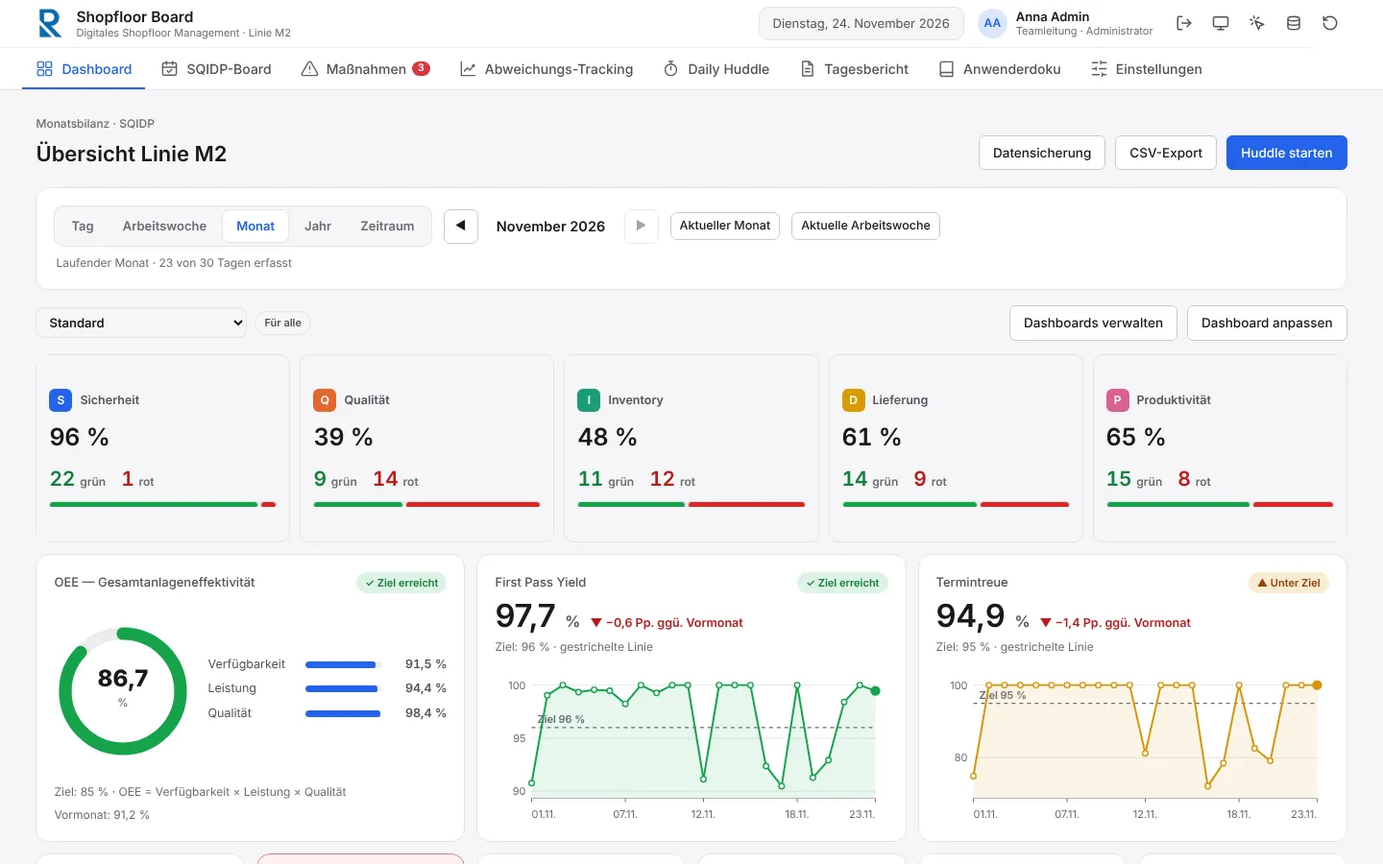
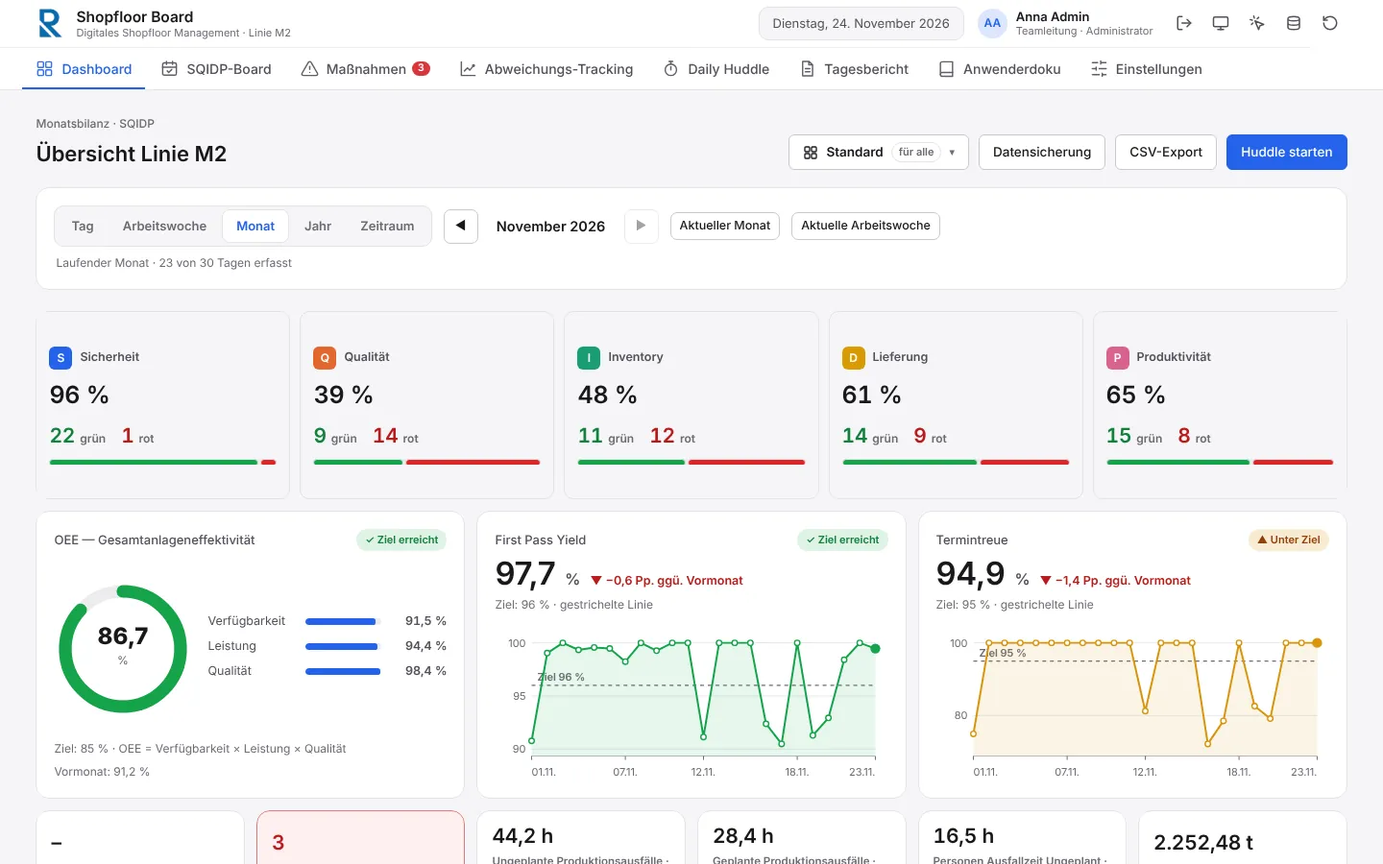
Dashboard-Menü in der Kopfzeile statt eigener Werkzeugleiste
- Knopf mit Namen des Dashboards neben Datensicherung/CSV/Huddle starten
- Menü: Dashboards wechseln, anpassen, kopieren, Einstellungen, neu
- Fenster „Dashboards verwalten“ entfällt; Doku und Bilder angepasst

Claude-Session: https://claude.ai/code/session_01VLWA3m64Q7Rtwxk9avuyph

diff --git a/frontend/index.html b/frontend/index.html
@@ -1516,13 +1516,11 @@ kbd {
 
 
 /* ============ Anpassbares Dashboard (12-Spalten-Raster) ============ */
-.dash-picker { display: flex; align-items: center; gap: 8px; flex-wrap: wrap; margin-right: auto; }
-.dash-picker select { min-width: 220px; max-width: 340px; font-weight: 600; }
 .dm-vis { display: flex; flex-direction: column; gap: 8px; }
 .dm-opt { display: flex; align-items: flex-start; gap: 8px; font-size: 13.5px; font-weight: 400 !important; color: var(--ink); cursor: pointer; }
 .dm-opt input { margin-top: 3px; }
+.dash-toolbar:not(.editing) { display: none; }
 .dash-toolbar { display: flex; align-items: center; gap: 10px; flex-wrap: wrap; margin: -6px 0 14px; }
-.dash-toolbar.editing > :not(.dash-editbar) { display: none; }
 .dash-editbar { flex: 1 1 100%; display: flex; align-items: center; gap: 12px 18px; flex-wrap: wrap; padding: 10px 12px 10px 16px;
   border: 1px solid color-mix(in srgb, var(--accent) 45%, var(--line)); border-radius: 12px;
   background: color-mix(in srgb, var(--accent) 9%, var(--surface)); }
@@ -1531,19 +1529,36 @@ kbd {
 .dash-editbar-text b { font-size: 14px; }
 .dash-editbar-text span { font-size: 12px; color: var(--muted); }
 .dash-editbar-actions { display: flex; gap: 8px; flex-wrap: wrap; }
-#dashListDialog { width: min(640px, calc(100vw - 32px)); }
-.dl-top { display: flex; align-items: center; gap: 12px; justify-content: space-between; flex-wrap: wrap; margin-bottom: 14px; }
-.dl-top .mini-hint { margin: 0; flex: 1 1 240px; }
-.dl-group { font-size: 11.5px; font-weight: 600; color: var(--muted); text-transform: uppercase; letter-spacing: .06em; margin: 14px 0 6px; }
-.dl-group:first-child { margin-top: 0; }
-.dl-list { display: flex; flex-direction: column; }
-.dl-row { display: flex; align-items: center; gap: 10px; padding: 9px 10px; border: 1px solid var(--line); border-radius: 10px; margin-bottom: 6px; background: var(--surface); }
-.dl-row.current { border-color: color-mix(in srgb, var(--accent) 55%, var(--line)); background: color-mix(in srgb, var(--accent) 7%, var(--surface)); }
-.dl-main { flex: 1 1 auto; min-width: 0; }
-.dl-name { font-weight: 600; font-size: 14px; overflow: hidden; text-overflow: ellipsis; white-space: nowrap; }
-.dl-sub { font-size: 12px; color: var(--muted); margin-top: 1px; }
-.dl-actions { display: flex; gap: 6px; flex: none; flex-wrap: wrap; justify-content: flex-end; }
-@media (max-width: 560px) { .dl-row { flex-wrap: wrap; } .dl-actions { width: 100%; justify-content: flex-start; } }
+.dash-menu-wrap { position: relative; }
+.dash-menu-btn { display: inline-flex; align-items: center; gap: 8px; max-width: 340px; }
+.dash-menu-btn .ico { width: 16px; height: 16px; flex: none; }
+.dash-menu-name { font-weight: 600; overflow: hidden; text-overflow: ellipsis; white-space: nowrap; min-width: 0; }
+.dash-menu-vis { font-size: 11px; font-weight: 600; color: var(--muted); border: 1px solid var(--line); border-radius: 999px; padding: 1px 7px; white-space: nowrap; }
+.dash-menu-caret { color: var(--muted); font-size: 11px; }
+.dash-menu { position: absolute; right: 0; top: calc(100% + 6px); z-index: 60; width: min(380px, calc(100vw - 32px));
+  background: var(--surface); border: 1px solid var(--line); border-radius: 14px; box-shadow: 0 12px 32px rgba(0,0,0,.18); padding: 8px; }
+.dash-menu[hidden] { display: none; }
+.dash-menu-list { max-height: min(46vh, 360px); overflow-y: auto; padding-bottom: 6px; }
+.dash-menu-group { font-size: 11px; font-weight: 600; color: var(--muted); text-transform: uppercase; letter-spacing: .07em; padding: 8px 10px 4px; }
+.dash-menu-opt { display: flex; align-items: center; gap: 10px; width: 100%; text-align: left; border: 0; background: none; font: inherit; color: var(--ink); padding: 8px 10px; border-radius: 9px; cursor: pointer; }
+.dash-menu-opt:hover, .dash-menu-opt:focus-visible, .dash-menu-item:hover, .dash-menu-item:focus-visible { background: var(--surface-2); outline: none; }
+.dash-menu-opt.current { background: color-mix(in srgb, var(--accent) 11%, transparent); }
+.dash-menu-check { width: 16px; flex: none; color: var(--accent-2); font-weight: 700; }
+.dash-menu-opt-name { flex: 1; min-width: 0; overflow: hidden; text-overflow: ellipsis; white-space: nowrap; font-weight: 500; }
+.dash-menu-opt.current .dash-menu-opt-name { font-weight: 600; }
+.dash-menu-opt-owner { font-size: 12px; color: var(--muted); white-space: nowrap; }
+.dash-menu-actions { border-top: 1px solid var(--line); padding-top: 6px; display: flex; flex-direction: column; }
+.dash-menu-item { display: flex; align-items: flex-start; gap: 10px; width: 100%; text-align: left; border: 0; background: none; font: inherit; color: var(--ink); padding: 8px 10px; border-radius: 9px; cursor: pointer; }
+.dash-menu-item[hidden] { display: none; }
+.dash-menu-item b { display: block; font-weight: 600; font-size: 14px; }
+.dash-menu-item small { display: block; font-size: 12px; color: var(--muted); margin-top: 1px; }
+.dmi-ico { width: 22px; height: 22px; border-radius: 6px; display: grid; place-items: center; flex: none; background: var(--surface-2); color: var(--accent-2); font-size: 13px; margin-top: 1px; }
+@media (max-width: 640px) {
+  .dash-menu-wrap { position: static; width: 100%; }
+  .dash-menu-btn { max-width: none; width: 100%; }
+  .dash-menu-name { flex: 1; text-align: left; }
+  .dash-menu { left: 16px; right: 16px; width: auto; top: auto; margin-top: 6px; position: absolute; }
+}
 .dash-grid { display: grid; grid-template-columns: repeat(12, minmax(0, 1fr)); grid-auto-rows: 40px; gap: 12px; position: relative; }
 .dw {
   grid-column: var(--x) / span var(--w); grid-row: var(--y) / span var(--h);
@@ -1875,6 +1890,23 @@ dialog::backdrop { background: rgba(0, 0, 0, .45); }
       <h1 id="dashTitle">Übersicht Linie M2</h1>
     </div>
     <div class="head-actions">
+      <div class="dash-menu-wrap">
+        <button class="btn dash-menu-btn" id="dashMenuBtn" type="button" aria-haspopup="menu" aria-expanded="false" aria-controls="dashMenu" title="Dashboard wechseln, anpassen, kopieren oder neu anlegen">
+          <svg class="ico" aria-hidden="true"><use href="#i-dashboard"/></svg>
+          <span class="dash-menu-name" id="dashMenuName">Standard</span>
+          <span class="dash-menu-vis" id="dashVisPill"></span>
+          <span class="dash-menu-caret" aria-hidden="true">▾</span>
+        </button>
+        <div class="dash-menu" id="dashMenu" role="menu" aria-label="Dashboards" hidden>
+          <div class="dash-menu-list" id="dashMenuList"></div>
+          <div class="dash-menu-actions">
+            <button class="dash-menu-item" role="menuitem" type="button" id="dashEditBtn"><span class="dmi-ico" aria-hidden="true">✎</span><span><b>Dashboard anpassen</b><small id="dashEditHintTxt">Karten und Diagramme hinzufügen, verschieben, Größe ändern</small></span></button>
+            <button class="dash-menu-item" role="menuitem" type="button" id="dashCopyBtn"><span class="dmi-ico" aria-hidden="true">⧉</span><span><b>Kopie erstellen</b><small>Dieses Dashboard als eigenes übernehmen</small></span></button>
+            <button class="dash-menu-item" role="menuitem" type="button" id="dashMetaBtn"><span class="dmi-ico" aria-hidden="true">⚙</span><span><b>Einstellungen</b><small>Name, Sichtbarkeit, löschen</small></span></button>
+            <button class="dash-menu-item" role="menuitem" type="button" id="dashNewBtn"><span class="dmi-ico" aria-hidden="true">＋</span><span><b>Neues Dashboard</b><small>Leer oder als Kopie, privat oder öffentlich</small></span></button>
+          </div>
+        </div>
+      </div>
       <button class="btn" id="backupBtn" title="Alle Daten als Datei sichern oder aus einer Sicherung wiederherstellen">Datensicherung</button>
       <button class="btn" id="dashCsvBtn" title="Tages-Kennzahlen (OEE, FPY, Termintreue u. a.) als CSV exportieren">CSV-Export</button>
       <button class="btn primary" data-goto="huddle">Huddle starten</button>
@@ -1905,12 +1937,6 @@ dialog::backdrop { background: rgba(0, 0, 0, .45); }
     <p class="mini-hint" id="dashCoverageText"></p>
   </div>
   <div class="dash-toolbar" id="dashToolbar">
-    <div class="dash-picker" id="dashPicker">
-      <select id="dashSelect" class="perm-select" aria-label="Dashboard auswählen"></select>
-      <span class="pill neutral" id="dashVisPill"></span>
-    </div>
-    <button class="btn" id="dashManageBtn" type="button" title="Alle Dashboards: öffnen, neu anlegen, kopieren, umbenennen, löschen">Dashboards verwalten</button>
-    <button class="btn" id="dashEditBtn" title="Karten und Diagramme hinzufügen, verschieben und in der Größe ändern">Dashboard anpassen</button>
     <div class="dash-editbar" id="dashEditTools" hidden>
       <div class="dash-editbar-text">
         <b id="dashEditTitle">Dashboard anpassen</b>
@@ -3043,20 +3069,6 @@ dialog::backdrop { background: rgba(0, 0, 0, .45); }
 </dialog>
 
 <!-- Dialog: Dashboard anlegen / Einstellungen -->
-<dialog id="dashListDialog" aria-labelledby="dlTitle">
-  <div class="dlg-head">
-    <h2 id="dlTitle">Dashboards</h2>
-    <button type="button" class="btn ghost sm" id="dlClose" aria-label="Schließen">✕</button>
-  </div>
-  <div class="dlg-body">
-    <div class="dl-top">
-      <p class="mini-hint">Standard-Dashboards gelten für alle. Eigene Dashboards sind privat oder öffentlich.</p>
-      <button type="button" class="btn primary" id="dlNew">+ Neues Dashboard</button>
-    </div>
-    <div class="dl-list" id="dlList"></div>
-  </div>
-</dialog>
-
 <dialog id="dashMetaDialog">
   <form method="dialog" id="dashMetaForm" novalidate>
     <div class="dlg-head">
@@ -5964,34 +5976,72 @@ window.SFM = (function () {
     B.edit = on;
     renderActiveBoard();
   }
+  function dashOwnerText(x) {
+    var me = dashMe().toLowerCase();
+    if (x.visibility !== "public") return "";
+    return String(x.owner).toLowerCase() === me && me ? "von Ihnen" : "von " + x.owner;
+  }
   function renderDashPicker() {
-    var sel = $("#dashSelect");
-    if (!sel) return;
-    var list = dashList || dashFallbackList(), d = currentDash(), me = dashMe().toLowerCase();
-    sel.innerHTML = "";
-    [["standard", "Standard"], ["public", "Öffentlich"], ["private", "Privat"]].forEach(function (g) {
+    if (!$("#dashMenuName")) return;
+    var d = currentDash();
+    $("#dashMenuName").textContent = d.name;
+    $("#dashVisPill").textContent = d.visibility === "standard" ? "für alle" : d.visibility === "public" ? "öffentlich" : "privat";
+    $("#dashMenuBtn").title = "Dashboard: " + d.name + " — " + (d.visibility === "standard" ? "Standard-Dashboard, gleich für alle"
+      : d.visibility === "public" ? "öffentlich, " + dashOwnerText(d) : "privat, nur für Sie") + ". Klicken zum Wechseln, Anpassen oder Anlegen.";
+    $("#dashLayoutReset").hidden = !dashIsBuiltin(d);
+    $("#dashEditHintTxt").textContent = dashIsBuiltin(d) ? "Gilt für alle — Teamleitung und Administration" : "Karten und Diagramme hinzufügen, verschieben, Größe ändern";
+    $("#dashCopyBtn").hidden = !dashMe();
+    $("#dashNewBtn").hidden = !dashMe();
+    $("#dashMetaBtn").hidden = !(d.canEdit && !dashIsBuiltin(d));
+    if (!$("#dashMenu").hidden) renderDashMenuList();
+  }
+  function renderDashMenuList() {
+    var box = $("#dashMenuList"), list = dashList || dashFallbackList(), cur = currentDash();
+    box.innerHTML = "";
+    [["standard", "Standard — für alle"], ["public", "Öffentlich"], ["private", "Privat — nur für Sie"]].forEach(function (g) {
       var items = list.filter(function (x) { return x.visibility === g[0]; });
       if (!items.length) return;
-      var og = document.createElement("optgroup");
-      og.label = g[1];
+      box.appendChild(el("div", "dash-menu-group", g[1]));
       items.forEach(function (x) {
-        var o = document.createElement("option");
-        o.value = x.id;
-        o.textContent = x.name + (x.visibility === "public" && String(x.owner).toLowerCase() !== me ? " · " + x.owner : "");
-        og.appendChild(o);
+        var b = el("button", "dash-menu-opt" + (x.id === cur.id ? " current" : ""));
+        b.type = "button"; b.setAttribute("role", "menuitemradio"); b.setAttribute("aria-checked", x.id === cur.id ? "true" : "false");
+        b.appendChild(el("span", "dash-menu-check", x.id === cur.id ? "✓" : ""));
+        b.appendChild(el("span", "dash-menu-opt-name", x.name));
+        var own = dashOwnerText(x);
+        if (own) b.appendChild(el("span", "dash-menu-opt-owner", own));
+        b.addEventListener("click", function () { closeDashMenu(); selectDash(x.id); });
+        box.appendChild(b);
       });
-      sel.appendChild(og);
     });
-    sel.value = d.id;
-    var mine = String(d.owner).toLowerCase() === me && !!me;
-    $("#dashVisPill").textContent = d.visibility === "standard" ? "Für alle" : d.visibility === "public" ? "Öffentlich · " + (mine ? "von Ihnen" : "von " + d.owner) : "Privat";
-    $("#dashVisPill").title = d.visibility === "standard" ? "Standard-Dashboard — gleich für alle, gepflegt von Teamleitung und Administration"
-      : d.visibility === "public" ? "Alle sehen dieses Dashboard; ändern darf nur, wer es angelegt hat (und die Administration)" : "Nur Sie sehen dieses Dashboard";
-    $("#dashLayoutReset").hidden = !dashIsBuiltin(d);
-    $("#dashEditBtn").title = dashIsBuiltin(d)
-      ? "„" + d.name + "“ für alle anpassen (Teamleitung und Administration)"
-      : "Karten und Diagramme hinzufügen, verschieben und in der Größe ändern";
   }
+  function openDashMenu() {
+    renderDashPicker(); renderDashMenuList();
+    $("#dashMenu").hidden = false;
+    $("#dashMenuBtn").setAttribute("aria-expanded", "true");
+    var first = $("#dashMenu .dash-menu-opt.current") || $("#dashMenu .dash-menu-opt");
+    if (first) first.focus();
+    // Öffentliche Dashboards ändern andere — beim Öffnen den aktuellen Stand holen
+    if (SFM.isServer()) loadDashList(currentDashId).then(function () { if (!$("#dashMenu").hidden) renderDashMenuList(); }, function () {});
+  }
+  function closeDashMenu() {
+    $("#dashMenu").hidden = true;
+    $("#dashMenuBtn").setAttribute("aria-expanded", "false");
+  }
+  $("#dashMenuBtn").addEventListener("click", function (e) {
+    e.stopPropagation();
+    if ($("#dashMenu").hidden) openDashMenu(); else closeDashMenu();
+  });
+  document.addEventListener("click", function (e) {
+    if (!$("#dashMenu").hidden && !e.target.closest(".dash-menu-wrap")) closeDashMenu();
+  });
+  $("#dashMenu").addEventListener("keydown", function (e) {
+    if (e.key === "Escape") { closeDashMenu(); $("#dashMenuBtn").focus(); return; }
+    if (e.key !== "ArrowDown" && e.key !== "ArrowUp") return;
+    e.preventDefault();
+    var items = [].slice.call($("#dashMenu").querySelectorAll("button:not([hidden])"));
+    var i = items.indexOf(document.activeElement);
+    items[(i + (e.key === "ArrowDown" ? 1 : -1) + items.length) % items.length].focus();
+  });
   function selectDash(id) {
     if (id === currentDashId) return;
     B.edit = false;
@@ -6002,7 +6052,6 @@ window.SFM = (function () {
     // Öffentliche Dashboards ändern andere — beim Wechsel den aktuellen Stand holen
     if (SFM.isServer()) loadDashList(id);
   }
-  $("#dashSelect").addEventListener("change", function () { selectDash(this.value); });
 
   var dmDlg = $("#dashMetaDialog"), dmMode = "new";
   function dmError(msg) { var e = $("#dmError"); e.hidden = !msg; e.textContent = msg || ""; }
@@ -6023,50 +6072,9 @@ window.SFM = (function () {
     dmDlg.showModal();
     setTimeout(function () { $("#dmName").focus(); $("#dmName").select(); }, 0);
   }
-  // Fenster „Dashboards verwalten“: alle Dashboards mit Öffnen, Kopie, Einstellungen
-  var dlDlg = $("#dashListDialog");
-  function dashVisText(x) {
-    var me = dashMe().toLowerCase();
-    if (x.visibility === "standard") return "Für alle · gepflegt von Teamleitung und Administration";
-    if (x.visibility === "public") return "Öffentlich · " + (String(x.owner).toLowerCase() === me && me ? "von Ihnen" : "von " + x.owner);
-    return "Privat · nur für Sie";
-  }
-  function renderDashListDialog() {
-    var box = $("#dlList"), list = dashList || dashFallbackList(), cur = currentDash();
-    box.innerHTML = "";
-    $("#dlNew").hidden = !dashMe();
-    [["standard", "Standard"], ["public", "Öffentlich"], ["private", "Privat"]].forEach(function (g) {
-      var items = list.filter(function (x) { return x.visibility === g[0]; });
-      if (!items.length) return;
-      box.appendChild(el("div", "dl-group", g[1]));
-      items.forEach(function (x) {
-        var row = el("div", "dl-row" + (x.id === cur.id ? " current" : ""));
-        var main = el("div", "dl-main");
-        main.appendChild(el("div", "dl-name", x.name));
-        main.appendChild(el("div", "dl-sub", (x.id === cur.id ? "Angezeigt · " : "") + dashVisText(x)));
-        row.appendChild(main);
-        var act = el("div", "dl-actions");
-        var btn = function (label, cls, title, fn) {
-          var b = el("button", "btn sm" + (cls ? " " + cls : ""), label);
-          b.type = "button"; b.title = title;
-          b.addEventListener("click", fn);
-          act.appendChild(b);
-        };
-        if (x.id !== cur.id) btn("Öffnen", "primary", "Dieses Dashboard anzeigen", function () { dlDlg.close(); selectDash(x.id); });
-        if (dashMe()) btn("Kopie", "", "Als eigenes Dashboard kopieren", function () { dlDlg.close(); selectDash(x.id); openDashMeta("copy"); });
-        if (x.canEdit && !dashIsBuiltin(x)) btn("Einstellungen", "", "Name, Sichtbarkeit, löschen", function () { dlDlg.close(); selectDash(x.id); openDashMeta("edit"); });
-        row.appendChild(act);
-        box.appendChild(row);
-      });
-    });
-  }
-  $("#dashManageBtn").addEventListener("click", function () {
-    renderDashListDialog();
-    dlDlg.showModal();
-    if (SFM.isServer()) loadDashList(currentDashId).then(function () { if (dlDlg.open) renderDashListDialog(); }, function () {});
-  });
-  $("#dlClose").addEventListener("click", function () { dlDlg.close(); });
-  $("#dlNew").addEventListener("click", function () { dlDlg.close(); openDashMeta("new"); });
+  $("#dashNewBtn").addEventListener("click", function () { closeDashMenu(); openDashMeta("new"); });
+  $("#dashCopyBtn").addEventListener("click", function () { closeDashMenu(); openDashMeta("copy"); });
+  $("#dashMetaBtn").addEventListener("click", function () { closeDashMenu(); openDashMeta("edit"); });
   $("#dmCancel").addEventListener("click", function () { dmDlg.close(); });
   $("#dmClose").addEventListener("click", function () { dmDlg.close(); });
   $("#dashMetaForm").addEventListener("submit", function (e) {
@@ -6131,7 +6139,7 @@ window.SFM = (function () {
     });
   });
 
-  $("#dashEditBtn").addEventListener("click", function () { setDashEdit(true); });
+  $("#dashEditBtn").addEventListener("click", function () { closeDashMenu(); setDashEdit(true); });
   $("#dashEditDone").addEventListener("click", function () { setDashEdit(false); });
   $("#dashAddBtn").addEventListener("click", function () { openWidgetDialog(null); });
   $("#dashLayoutReset").addEventListener("click", function () {
@@ -10031,16 +10039,17 @@ window.SFM = (function () {
           "<b>Datensicherung</b> — nur im lokalen Testmodus (ohne Server) zum Sichern und Wiederherstellen."
         ] }
       ],
-      tip: "Über die Auswahl links über den Kacheln lässt sich zwischen mehreren Dashboards wechseln — siehe „Dashboards verwalten“." },
+      tip: "Über den Dashboard-Knopf oben rechts lässt sich zwischen mehreren Dashboards wechseln — siehe „Dashboards wechseln & verwalten“." },
 
-    { id: "dashboards", group: "Auswertung", title: "Dashboards verwalten",
-      intro: "Es gibt mehrere Dashboards. „Standard“ und „Detaillierte Auswertung“ gelten für alle. Zusätzlich kann jede Person eigene Dashboards anlegen — privat (nur für sich) oder öffentlich (alle sehen es).",
+    { id: "dashboards", group: "Auswertung", title: "Dashboards wechseln & verwalten",
+      intro: "Es gibt mehrere Dashboards. „Standard“ und „Detaillierte Auswertung“ gelten für alle. Zusätzlich kann jede Person eigene Dashboards anlegen — privat (nur für sich) oder öffentlich (alle sehen es). Alles dazu steckt im Dashboard-Knopf oben rechts.",
       sections: [
-        { h: "Liste aller Dashboards", img: "dashboards-verwalten", cap: "Fenster „Dashboards verwalten“", small: true, steps: [
-          ["Öffnen", "„Dashboards verwalten“ zeigt alle Dashboards getrennt nach Standard, Öffentlich und Privat. „Öffnen“ zeigt eines an — schneller geht es über die Auswahl links."],
-          ["Neues Dashboard", "„+ Neues Dashboard“: Namen eingeben, Privat oder Öffentlich wählen und als Kopie des aktuellen Dashboards oder leer beginnen. Danach öffnet sich gleich das Anpassen."],
-          ["Kopie", "Übernimmt ein Dashboard — auch ein Standard- oder fremdes öffentliches — als eigenes, das Sie frei ändern können."],
-          ["Einstellungen", "Bei eigenen Dashboards: Name und Sichtbarkeit ändern oder das Dashboard löschen."]
+        { h: "Das Dashboard-Menü", img: "dashboard-menue", cap: "Knopf mit dem Namen des Dashboards — ein Klick öffnet das Menü", small: true, steps: [
+          ["Wechseln", "Oben rechts auf den Knopf mit dem Namen des aktuellen Dashboards klicken (z. B. „Standard · für alle“). Oben im Menü stehen alle Dashboards — Standard, Öffentlich, Privat; ein Klick zeigt eines an, der Haken markiert das aktuelle."],
+          ["Dashboard anpassen", "Karten und Diagramme hinzufügen, verschieben, Größe ändern — erscheint nur, wenn Sie das Dashboard ändern dürfen (siehe „Dashboard anpassen“)."],
+          ["Kopie erstellen", "Übernimmt das aktuelle Dashboard — auch ein Standard- oder fremdes öffentliches — als eigenes, das Sie frei ändern können."],
+          ["Einstellungen", "Nur bei eigenen Dashboards: Name und Sichtbarkeit ändern oder das Dashboard löschen."],
+          ["Neues Dashboard", "Namen eingeben, Privat oder Öffentlich wählen und als Kopie des aktuellen Dashboards oder leer beginnen. Danach öffnet sich gleich das Anpassen."]
         ] },
         { h: "Wer darf was?", list: [
           "<b>Standard-Dashboards</b> ändern nur Teamleitung und Administration — die Änderung gilt für alle.",
@@ -10048,13 +10057,12 @@ window.SFM = (function () {
           "<b>Private</b> Dashboards sieht und ändert nur ihr Besitzer. Wird ein Konto gelöscht, verschwinden seine privaten Dashboards; öffentliche bleiben."
         ] }
       ],
-      tip: "Das zuletzt gewählte Dashboard erscheint beim nächsten Öffnen wieder — auch auf einem anderen Gerät." },
-
+      tip: "Das zuletzt gewählte Dashboard erscheint beim nächsten Öffnen wieder — auch auf einem anderen Gerät. Im Menü lässt es sich auch mit den Pfeiltasten bedienen; Esc schließt es." },
     { id: "anpassen", group: "Auswertung", title: "Dashboard anpassen",
       intro: "Jedes Dashboard besteht aus Widgets (Karten, Kacheln, Diagramme) auf einem Raster mit 12 Spalten. Anpassen kann, wer das Dashboard ändern darf.",
       sections: [
         { h: "Anpassen-Modus", img: "dashboard-anpassen", cap: "Hervorgehobene Leiste im Anpassen-Modus", steps: [
-          ["Starten", "„Dashboard anpassen“ — oben erscheint eine blaue Leiste, die Widgets bekommen einen Kopfbalken."],
+          ["Starten", "Dashboard-Knopf oben rechts → „Dashboard anpassen“. Über den Widgets erscheint eine blaue Leiste, die Widgets bekommen einen Kopfbalken."],
           ["Verschieben", "Am Kopfbalken ziehen — oder Widget anklicken und mit den Pfeiltasten verschieben."],
           ["Größe ändern", "Am Griff unten rechts ziehen — oder Umschalt + Pfeiltasten. Diagramme passen sich der Größe an."],
           ["Entfernen", "Das ✕ im Kopfbalken; „Rückgängig“ im Hinweis stellt es wieder her."],

diff --git a/tools/doku-screenshots.js b/tools/doku-screenshots.js
@@ -24,7 +24,9 @@ const W = 1440, H = 900;
   await p.mouse.move(W - 5, H - 5);
   await shot('kopfzeile', { clip: { x: 0, y: 0, width: W, height: 96 } });
   await shot('dashboard');
-  await p.click('#dashManageBtn'); await wait(400); await shot('dashboards-verwalten', { clip: await box('dialog[open]', 28) }); await p.click('#dlClose');
+  await p.click('#dashMenuBtn'); await wait(400);
+  { const r1 = await p.locator('#dashMenuBtn').boundingBox(), r2 = await p.locator('#dashMenu').boundingBox();
+    const x = Math.min(r1.x, r2.x) - 24, y = r1.y - 20; await shot('dashboard-menue', { clip: { x, y, width: Math.max(r1.x + r1.width, r2.x + r2.width) - x + 24, height: r2.y + r2.height - y + 24 } }); }
   await p.click('#dashEditBtn'); await wait(400);
   await p.evaluate(() => scrollTo(0, document.querySelector('#dashToolbar').getBoundingClientRect().top + scrollY - 16)); await wait(300);
   await shot('dashboard-anpassen');

diff --git a/CHANGELOG.md b/CHANGELOG.md
@@ -22,10 +22,11 @@ als `SCRIPT_VERSION` in `deploy.sh`.
   Regeln & Kennzahlen, Verwaltung) mit Bildschirmfotos, Prozessabläufen (z. B. Daily Huddle, Abweichung begründen,
   PDCA) und Schritt-für-Schritt-Anleitungen. Neu sind Themenliste mit Suche, Blättern zum nächsten Thema und
   Vergrößern der Bilder per Klick.
-- **Dashboards übersichtlicher:** Neben der Auswahl stehen nur noch „Dashboards verwalten“ und „Dashboard
-  anpassen“. Anlegen, Kopieren, Einstellungen und Löschen laufen über das Fenster „Dashboards verwalten“ mit der
-  Liste aller Dashboards. Beim Anpassen erscheint eine eigene, hervorgehobene Leiste mit „+ Widget hinzufügen“,
-  „Ursprüngliches Layout“ und „Fertig“.
+- **Dashboards übersichtlicher:** Die Dashboard-Knöpfe sind in die Kopfzeile neben „Datensicherung“,
+  „CSV-Export“ und „Huddle starten“ gewandert. Ein Knopf mit dem Namen des aktuellen Dashboards öffnet ein Menü:
+  oben alle Dashboards zum Wechseln (Standard, Öffentlich, Privat), darunter „Dashboard anpassen“, „Kopie
+  erstellen“, „Einstellungen“ und „Neues Dashboard“. Beim Anpassen erscheint eine eigene, hervorgehobene Leiste
+  mit „+ Widget hinzufügen“, „Ursprüngliches Layout“ und „Fertig“.
 
 ### Behoben
 - In den Einstellungen überlagerte die Seitenleiste auf schmalen Bildschirmen beim Scrollen den Inhalt.

diff --git a/CLAUDE.md b/CLAUDE.md
@@ -77,8 +77,8 @@ deploy/compose.proxy.yml  Betriebsart „proxy“ (Netz eines Reverse Proxys)
   Haken; geänderte Werte setzen „besprochen“ zurück (`reopenAgenda`).
 - **Revisionstag:** Fenster „Revision“ — nur Sicherheit, Inventory, Lieferung; geplant 24 h (Standard
   Organisatorisch, Begründung „Revision“), Rest 0, `rec.revision = true`, alle Punkte besprochen.
-- **Dashboards:** Liste mehrerer Dashboards (`dashList`, `currentDash()`, Auswahl `#dashSelect`; Anlegen/Kopie/
-  Einstellungen nur im Fenster „Dashboards verwalten“ `#dashListDialog`; Anpassen-Leiste `#dashEditTools`), Widgets im
+- **Dashboards:** Liste mehrerer Dashboards (`dashList`, `currentDash()`; Wechseln, Anpassen, Kopie, Einstellungen,
+  Neu im Menü `#dashMenuBtn`/`#dashMenu` in der Kopfzeile des Dashboards; Anpassen-Leiste `#dashEditTools`), Widgets im
   12-Spalten-Raster. Sichtbarkeit `standard` (eingebaut: `standard`, `detail` = „Detaillierte Auswertung“; ändern nur
   manager/admin, `widgets: null` = ausgeliefertes Layout aus `DASH_BUILTIN`), `public` (alle sehen, ändern/löschen
   nur Ersteller + admin), `private` (nur Besitzer). Server: Tabelle `dashboards`, `dashboards.js` (Regeln, Migration
